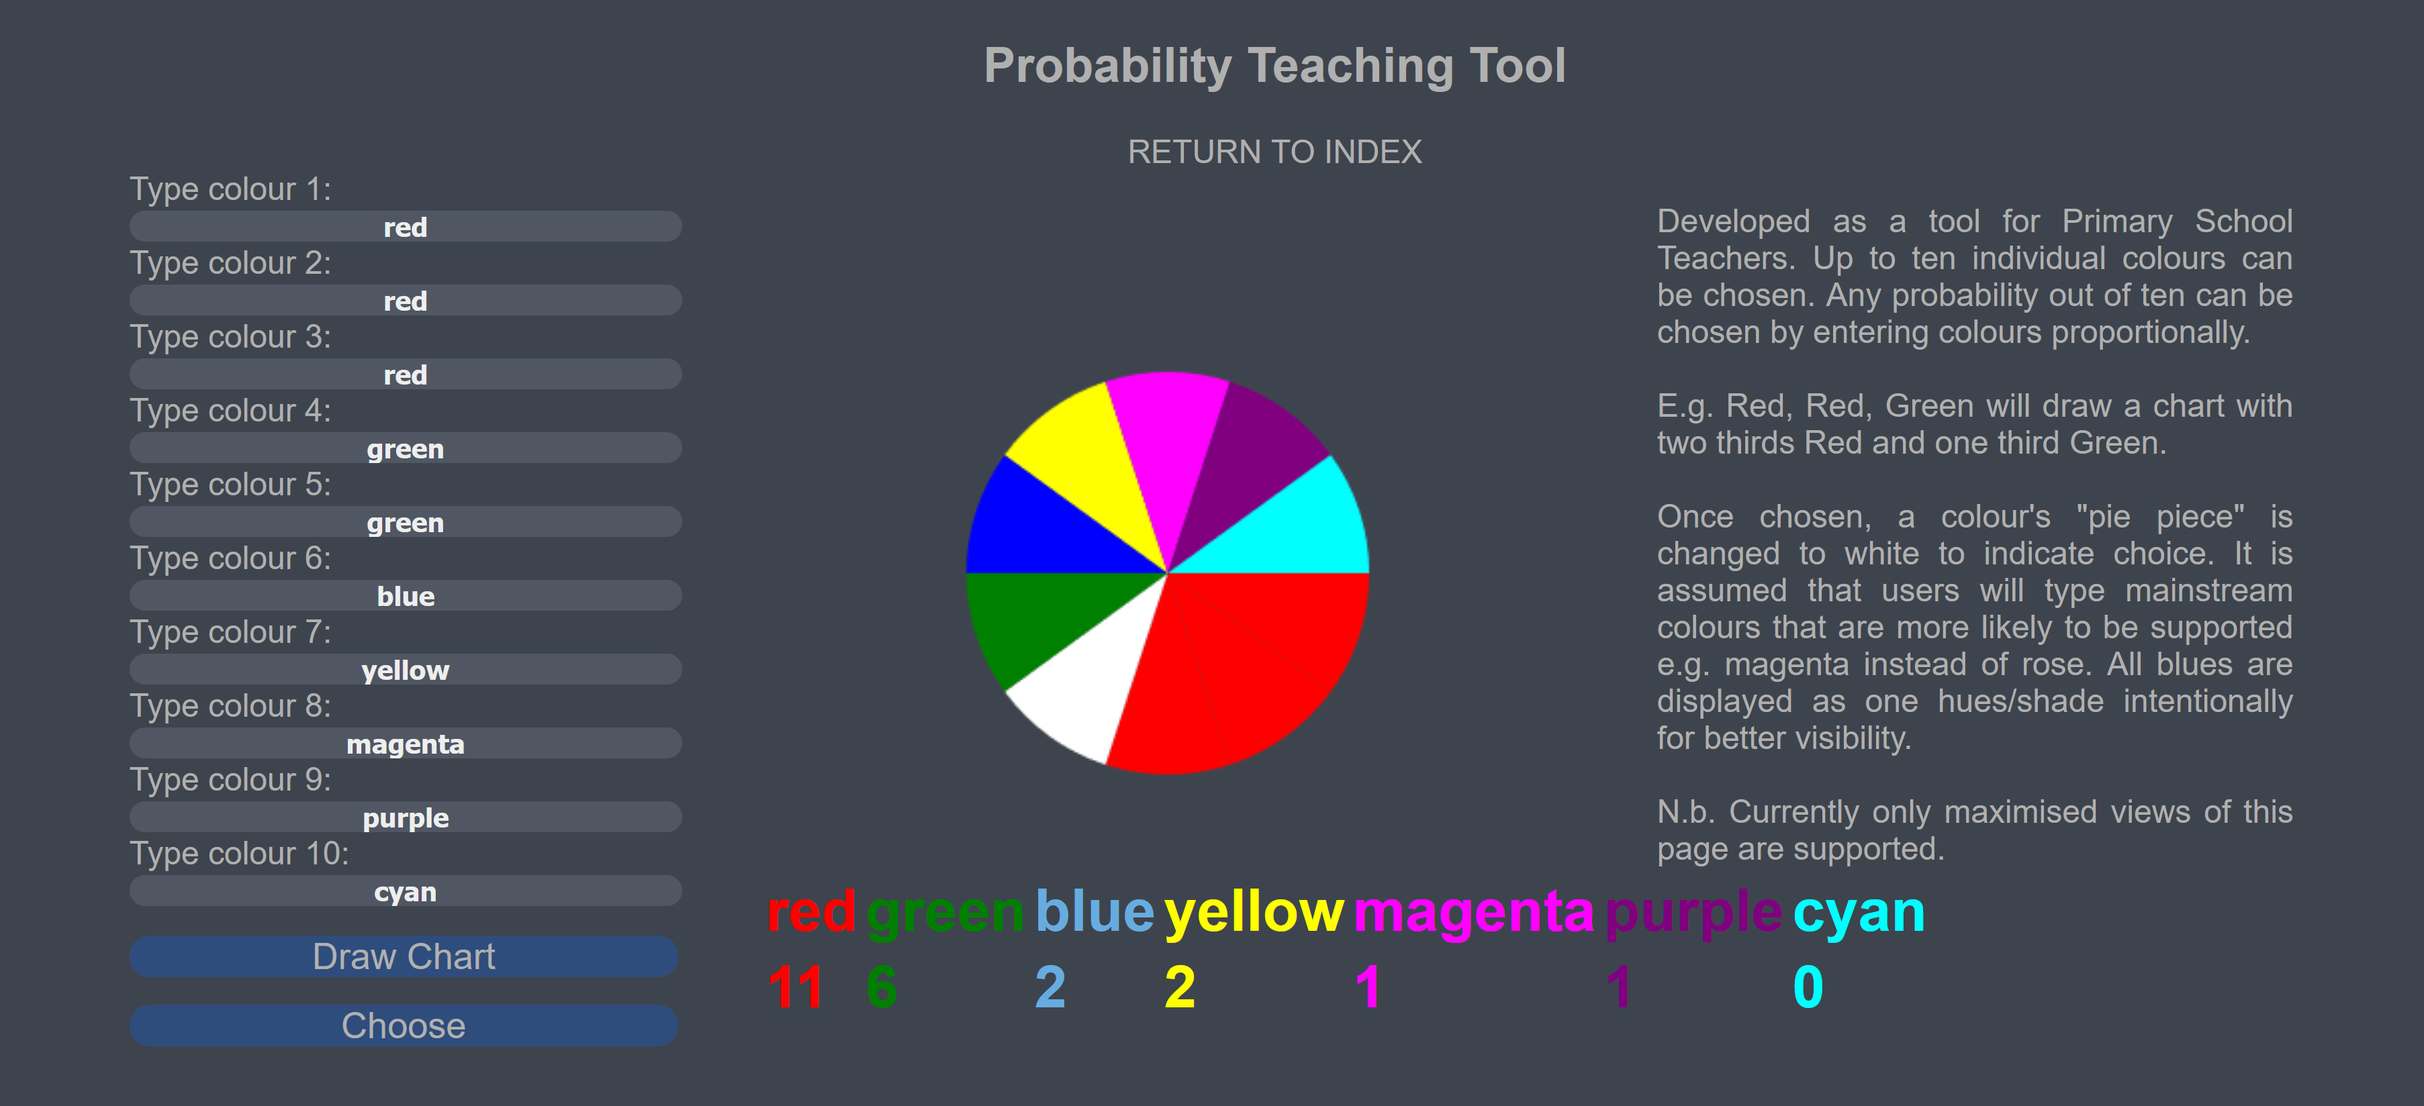
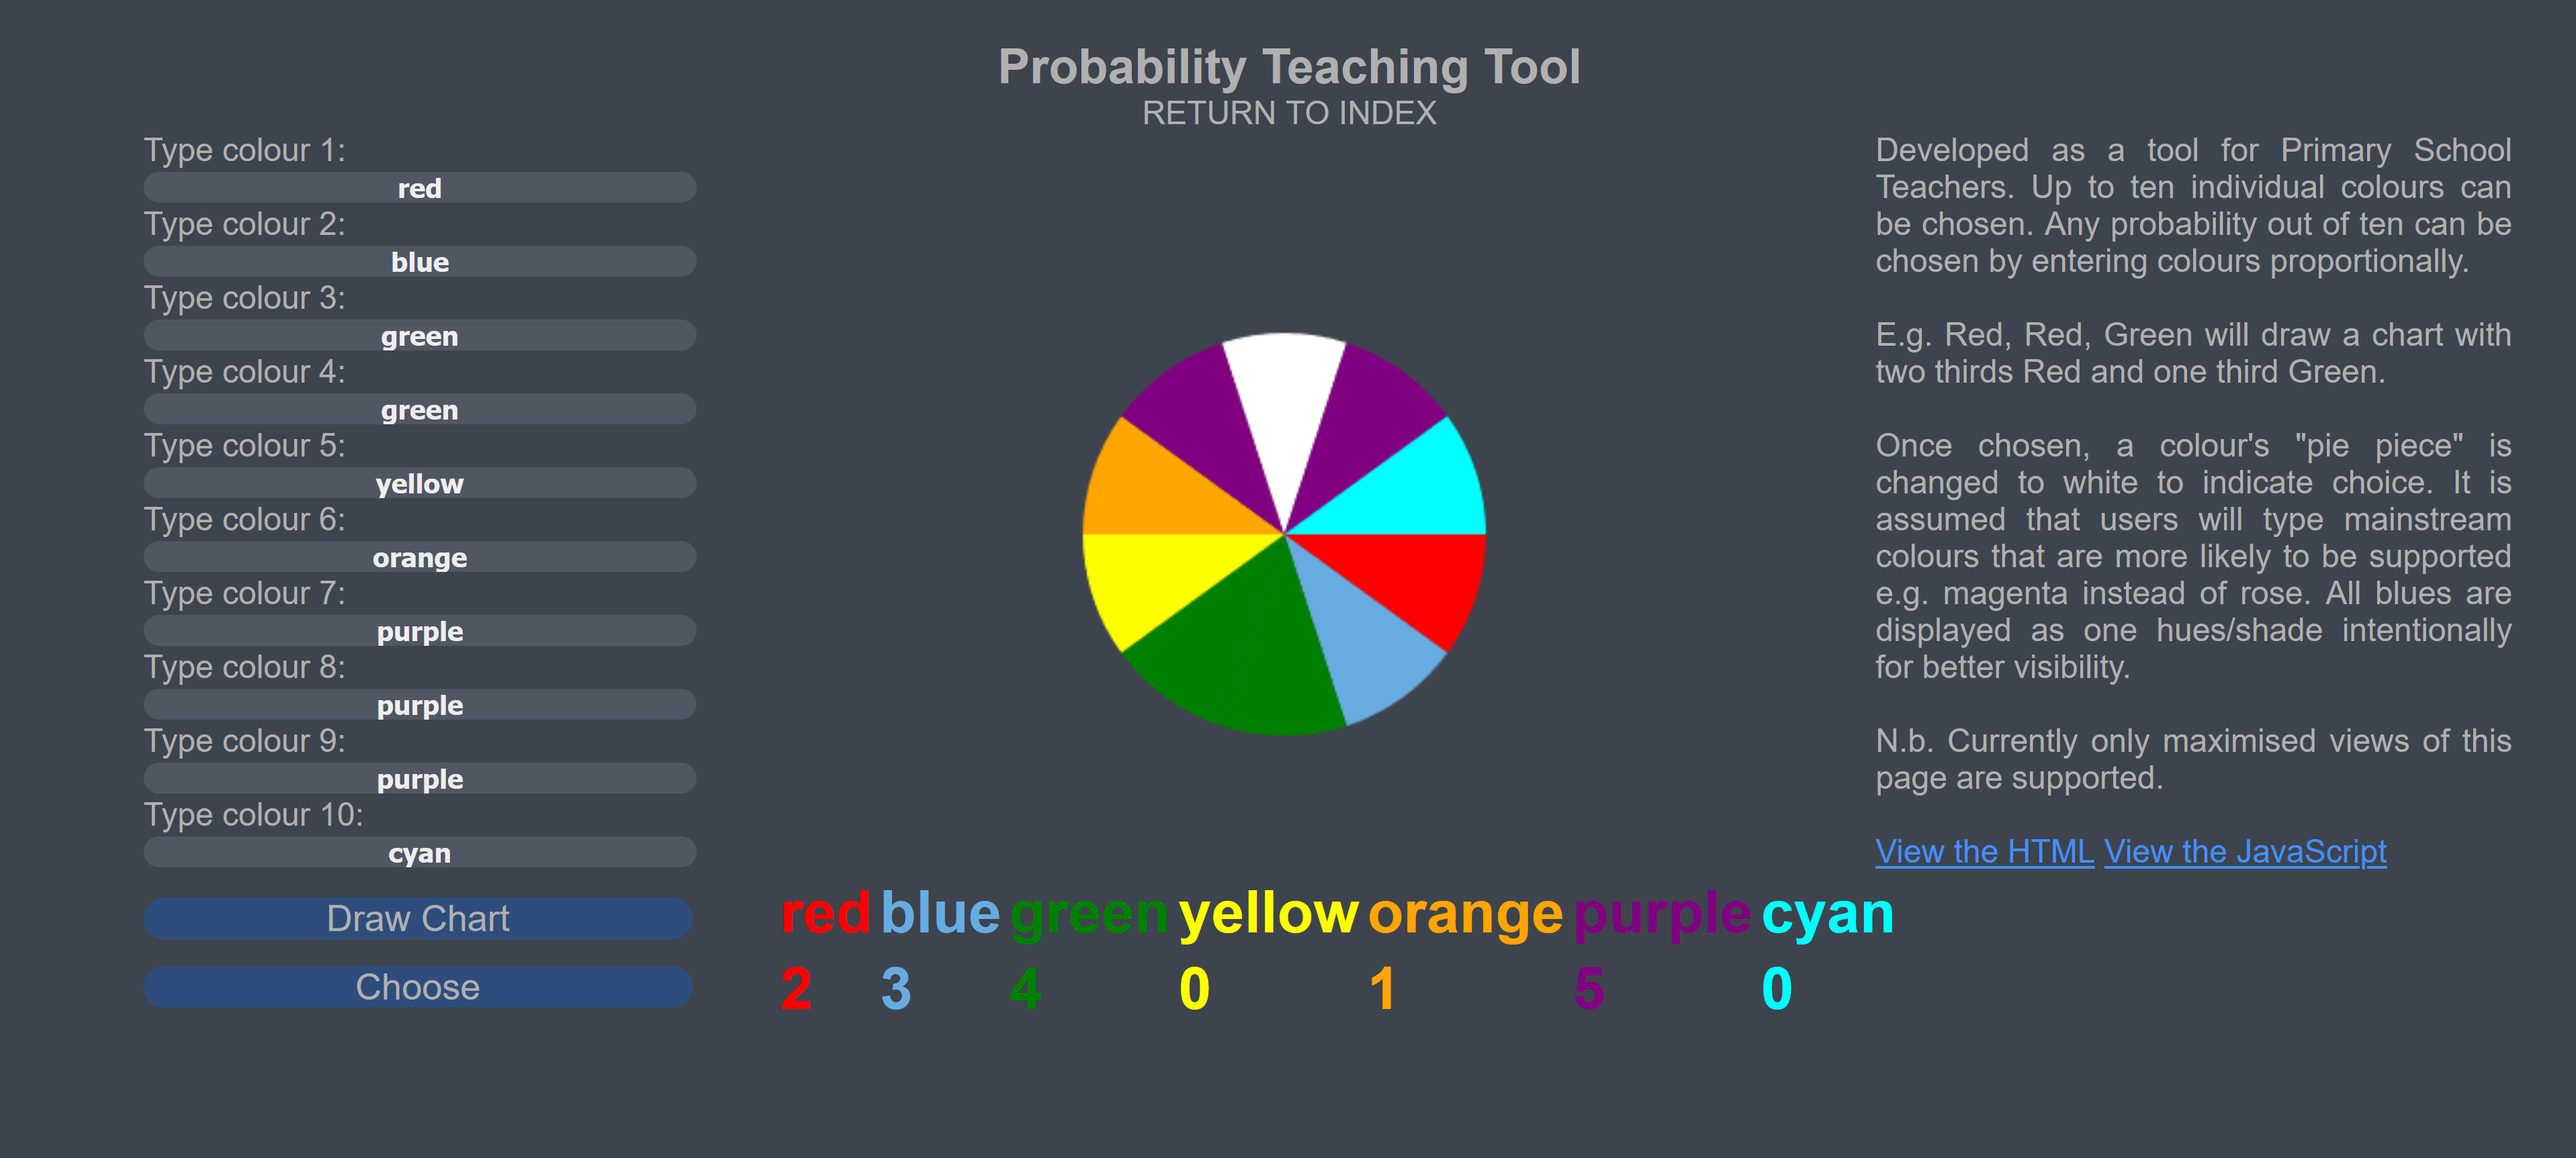
Fixed blue change issue in pie; altered index layout/colour; changed images; began CSS refactor

diff --git a/styles.css b/styles.css
@@ -1,19 +1,26 @@
 body{
+    background-color: #ffffff;
+    font-family: Arial, Helvetica, sans-serif;
+}
+#ProbabilityTool, #RandomItemTool, #TTTPage{
     background-color: #3e444d;
     font-family: Arial, Helvetica, sans-serif;
 }
 h2{
     text-align: center;
     color: #b0b0b0;
+    margin-bottom: 0%;
 }
-a {
+a { 
     color: #448fff;
 }
-#AboutMe{
+
+/* #AboutMe{
     display: block;
     text-align: center;
-    width: 100%;
-}
+    margin-right: auto;
+    margin-left: auto;
+} */
 #Avatar{
     width: 20%;
     height: 20%;
@@ -35,25 +42,18 @@ video{
     text-align: center;
 }
 #LargeVideo video{
-    width:30%;
+    width:60%;
 }
-#VideosContainer{
-    text-align: center;
-}
+
 #VideosContainer label{
     color: #b0b0b0;
     display: inline-block;
     outline: none;
     width: 100%;
 }
-#TicTacToePage{
-    display: inline-block;
-    margin-right: auto;
-    margin-left: auto;
-   
-}
+
 #TicTacToeImg{
-    width: 20%;
+    width: 30%;
 }
 #TicTacToeBtn{
     display: none;
@@ -80,10 +80,8 @@ video{
     display: block;
     position: absolute;
     z-index: 3;
-    top: 30%;
-    left: 40%;
-    /* top:30%;
-    left: 45%; */
+    top: 50%;
+    left: 20%;
 }
 
 #VideoPlay Label{
@@ -95,8 +93,8 @@ video{
 #VideoPaused{
     display: none;
     position: absolute;
-    /* top: 30%; */
-    left: 45%;
+    top: 50%;
+    left: 24%;
 }
 #VideoPaused Label{
     color: #eeeeee;
@@ -105,15 +103,19 @@ video{
     font-weight: bold;
 }
 #FormContainer{
-    display: flex;
+    display: block;
     text-align: center;
     margin-left: auto;
     margin-right: auto;
 }
-#ChanceWheelPages{
-    display: inline-block;
+
+
+#AboutMe, #ChanceWheelPages, #RandomNamesPages, #TicTacToePage{
+    display: block;
+    text-align: center;
     margin-right: auto;
     margin-left: auto;
+    margin-bottom: 2%;
 }
 #ChanceWheelImg{
     width: 40%;
@@ -122,17 +124,12 @@ video{
 #RandomItemChooserImg{
     width: 40%;
 }
-#RandomNamesPages{
-    display: inline-block;
-    margin-right: auto;
-    margin-left: auto;
    
-}
 #ChanceExplanation{
     color:#b0b0b0;
     text-align: justify;
-    margin-right: 10%;
-    margin-bottom: 0%;
+    margin-right: 2%;
+    margin-top: 0%;
     width:25%;
 }
 #FormContainer Label {
@@ -202,7 +199,6 @@ video{
 
 #CanvasContainer{
     display: inline;
-    /* width: 50%; */
     margin-right: auto;
     margin-left: auto;
 }
@@ -226,9 +222,10 @@ video{
     
 }
 
-#AppContainerItems{
+#AppContainerItems, #AppContainer{
     display: flex;
     width: 100%;
+    margin-top: 2%;
 }
 #RandomItemExplanation{
     color:#b0b0b0;
@@ -237,6 +234,12 @@ video{
     margin-right: 10%;
     margin-bottom: 0%;
     width: 30%;
+}
+#TicTacToeExplanation{
+    color:#b0b0b0;
+    text-align: justify;
+    margin-right: 5%;
+    width: 50%;
 }
 #RandomContainer{
     display: block;

diff --git a/index.html b/index.html
@@ -16,27 +16,37 @@
                 covering multiple lines.
             </p>
         </div>
-        <h2>Click for live JavaScript-based examples</h2>
+        
         <div id="AppContainer">
             
             <div id="FormContainer">
+                <h2>Probability Teaching Tool</h2>
                 <form id="ChanceWheelPages" method="GET" action="ChanceWheel.html">
-                    <label for="ChanceWheelLoader">CHANCE WHEEL</label>
+                    <label for="ChanceWheelLoader">(JavaScript, HTML, CSS)</label>
                     <img id="ChanceWheelImg" src="ChanceWheel.png" onclick="document.location='ChanceWheel.html';">
                     <button id="ChanceWheelLoader" type="submit"></button>
                 </form>
                 
+                <h2>Random Item Chooser</h2>
                 <form id="RandomNamesPages" method="GET" action="RandomNamesV2.html">
-                    <label for="RandomNamesLoader">RANDOM LIST</label>
+                    <label for="RandomNamesLoader">(JavaScript, HTML, CSS)</label>
                     <img id="RandomItemChooserImg" src="RandomItemChooser.png" onclick="document.location='RandomNamesV2.html';">
                     <button id="RandomNamesLoader" type="submit"></button>
                 </form>
-            </div>
-            <div id="Separator">
                 
-            </div>    
-            <h2>Python-based projects</h2>
+                <h2>Tic Tac Toe</h2>
+                <form id="TicTacToePage" method="GET" action="tictactoe.html">
+                    <label for="TicTacToe">(Python -TKinter)</label>
+                    <img id="TicTacToeImg" src="TicTacToe.png" onclick="document.location='tictactoe.html';">
+                    <button id="TicTacToeBtn" type="submit"></button>
+                </form>
+                </div>
             </div>
+            <!-- <div id="Separator">
+                
+            </div>     -->
+            <!-- <h2>Python-based projects</h2> -->
+            <!-- </div> -->
         </div> 
         <!-- Foundations for SPA-type video viewing of Python-based apps -->
         <!-- <div id=Videos>
@@ -54,14 +64,8 @@
         <!-- <div id="VideoPaused">
             <label>PAUSED</label>
         </div> -->
-
-        <div id="VideosContainer">
-            <form id="TicTacToePage" method="GET" action="tictactoe.html">
-                <label for="TicTacToe">Tic Tac Toe</label>
-                <img id="TicTacToeImg" src="TicTacToe.png" onclick="document.location='tictactoe.html';">
-                <button id="TicTacToeBtn" type="submit"></button>
-            </form>
-        </div>
+        
+        
     <script>
         // Foundations for maximising and play/pause control
         // var clicks =0;

diff --git a/tictactoe.html b/tictactoe.html
@@ -7,21 +7,33 @@
         <link rel="stylesheet" href="styles.css">
         
     </head>
-    <body>
-        <h2>Tic Tac Toe in TKinter</h2>
+    <body id="TTTPage">
+        <div id="FormContainerItems">
+            <h2>Tic Tac Toe in TKinter</h2>
+            <form id="ReturnToIndex" method="GET" action="index.html">
+                <label for="IndexLoader">RETURN TO INDEX</label>
+                <button id="IndexLoader" type="submit"></button>
+            </form>
+        </div>
+        
         <div id="AppContainer">
-            <div id="VideoPlay" class="Player">
-                <label>CLICK TO PLAY</label>
+            <div id=VideoContainer>
+                <div id="VideoPlay" class="Player">
+                    <label>CLICK TO PLAY</label>
+                </div>
+                <div id="VideoPaused" class="Player">
+                    <label>PAUSED</label>
+                </div>
+                <div id="LargeVideo">
+                    <video id="TicTacToe" src="TicTacToe.mp4" onclick="Player(this)" onended="Reset()"></video>
+                </div>
             </div>
-            <div id="VideoPaused" class="Player">
-                <label>PAUSED</label>
-            </div>
-            <div id="LargeVideo">
-                <video id="TicTacToe" src="TicTacToe.mp4" onclick="Player(this)"></video>
-            </div>
-            <p>This implementation of Tic Tac Toe uses pure Python.<br>
-            It alternates the start as X's or O's depending how how many games have been played.<br>
-            <a href="https://github.com/myk-python/Tic-Tac-Toe_Tkinter">See the repository</a><br>
+            <p id="TicTacToeExplanation">
+            This implementation of Tic Tac Toe uses the Python built-in library, TKinter.
+            X's or O's start in an alternating pattern, based on the number of games played.
+            Custom-made images are used to represent each tile type.
+            The restart button clears the tiles to start a new game, whilst preserving the original window.<br><br> 
+            <a href="https://github.com/myk-python/Tic-Tac-Toe_Tkinter">View the repository</a> 
             <a href="https://github.com/myk-python/Tic-Tac-Toe_Tkinter/blob/main/TicTacToe_Tkinter.py">See the code</a>
             </p>
         </div>
@@ -44,6 +56,10 @@
                 paused.setAttribute("style", "display:block;");
                 clicks =2;
             }
+        }
+        function Reset(){
+            var video = document.getElementById("VideoPlay");
+            video.setAttribute("Style","display:block;");
         }
        
         </script>

diff --git a/ChanceWheel.js b/ChanceWheel.js
@@ -68,7 +68,6 @@ function first_draw(){
         }
         if (TABLE_COLOUR.match("#67ace0")){
             TABLE_COLOUR = og_blue;
-            console.log(og_blue,'ogblue');
         }
         // Table contents are named after their respective properties
         // E.g. "Red" will be red, because it was chosen as a colour
@@ -119,7 +118,16 @@ function choices(possibilities, remove, index){
         if(randcols.length>0){
             var possibilities =randcols.length;
             colours.length=0;
-            colours.push(...og_colours);
+            for (i=0;i<possibilities;i++){
+                if(og_colours[i].match(blue)){
+                    colours.push("#67ace0");
+                }
+                else if(!og_colours[i].match(blue)){
+                    colours.push(og_colours[i]);
+                }
+            }
+            
+            
             // If a random choice was made, will change the colour to white
             colours[index] =randcols[index];
             randcols.length=0;
@@ -164,6 +172,12 @@ function ran_choice(){
         og_colours[num] =og_blue;
 
     }
+    else if(choice.match(blue)){
+        CHOICE =og_blue;
+        choice ="#67ace0";
+        og_colours[num] =choice;
+    }
+   
     
     var label_css =`display: block; position:absolute; z-index:3; top:68%; left:40%; font-size: 30pt; font-weight: bold; font-family:Arial, Helvetica, sans-serif; margin-left: auto; margin-right: auto; text-align:center; background-color:#3e444d; color:${choice}`;
     document.querySelector("#Choice").setAttribute("style",label_css);
@@ -173,9 +187,9 @@ function ran_choice(){
     setTimeout(function(){document.querySelector("#Choice").innerHTML=''}, 750);
     
     
-    var choicecount= Number(document.querySelector(`#${og_colours[num]}`).innerHTML);
+    var choicecount= Number(document.querySelector(`#${CHOICE}`).innerHTML);
     choicecount++;
-    document.querySelector(`#${og_colours[num]}`).innerHTML=String(choicecount);
+    document.querySelector(`#${CHOICE}`).innerHTML=String(choicecount);
     // This can be changed as needed to prevent clashes with user choices
     randcols[num]="white";
 

diff --git a/ChanceWheel.html b/ChanceWheel.html
@@ -6,7 +6,7 @@
         <link rel="stylesheet" href="styles.css">
         
     </head>
-    <body>
+    <body id="ProbabilityTool">
         <h2>Probability Teaching Tool</h2>
         <div id="FormContainerItems">
             <form id="ReturnToIndex" method="GET" action="index.html">
@@ -45,9 +45,10 @@
                 It is assumed that users will type mainstream colours that are more likely to
                 be supported  e.g. magenta instead of rose. All blues are displayed as one hues/shade intentionally for better visibility.
                 <br><br>N.b. Currently only maximised views of this page are supported.<br><br>
-                <a href="https://github.com/myk-python/Teaching_tools/blob/main/ChanceWheel.html">View the HTML</a>
-                <br>
+               
+                <a href="https://github.com/myk-python/Teaching_tools/blob/main/ChanceWheel.html">View the HTML</a>     
                 <a href="https://github.com/myk-python/Teaching_tools/blob/main/ChanceWheel.js">View the JavaScript</a> 
+                
             </p>
         </div>
         <table id="Counters">

diff --git a/RandomNamesV2.html b/RandomNamesV2.html
@@ -8,7 +8,7 @@
         <script src="RandomNames.js"></script>
     </head>
 
-    <body>  
+    <body id="RandomItemTool">  
         <h2>Random Item Chooser</h2>
         
         <div id="FormContainerItems">
@@ -41,7 +41,6 @@
                 span one line.
                 <br><br>
                 <a href="https://github.com/myk-python/Teaching_tools/blob/main/RandomNamesV2.html">View the HTML</a>
-                <br>
                 <a href="https://github.com/myk-python/Teaching_tools/blob/main/RandomNames.js">View the JavaScript</a> 
             </p>      
             
